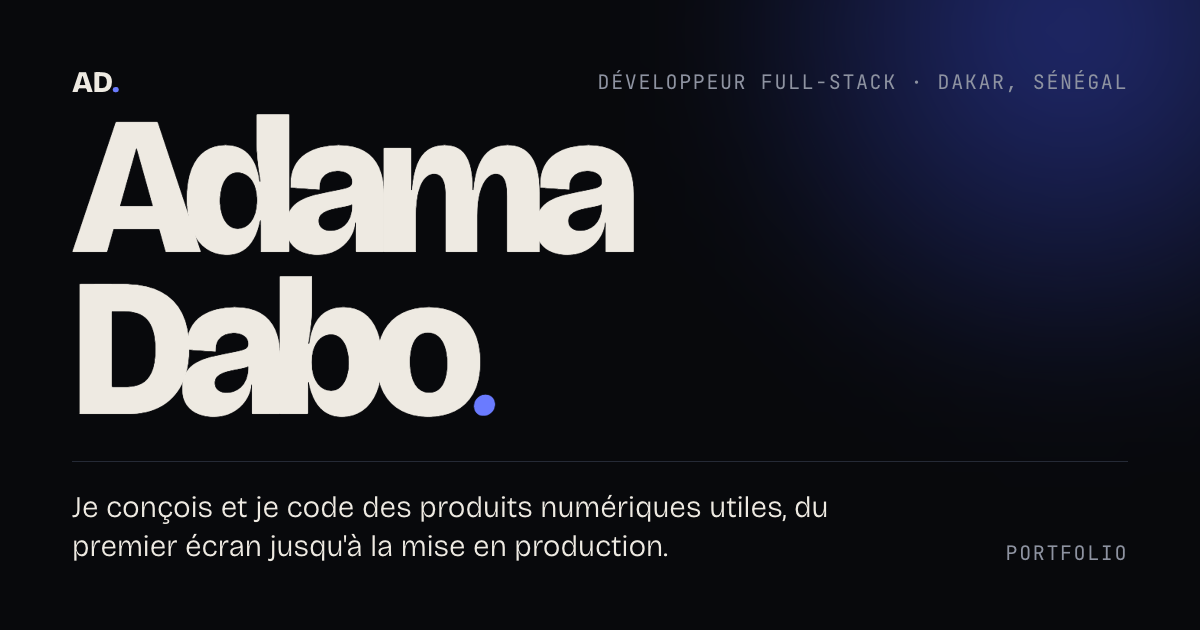
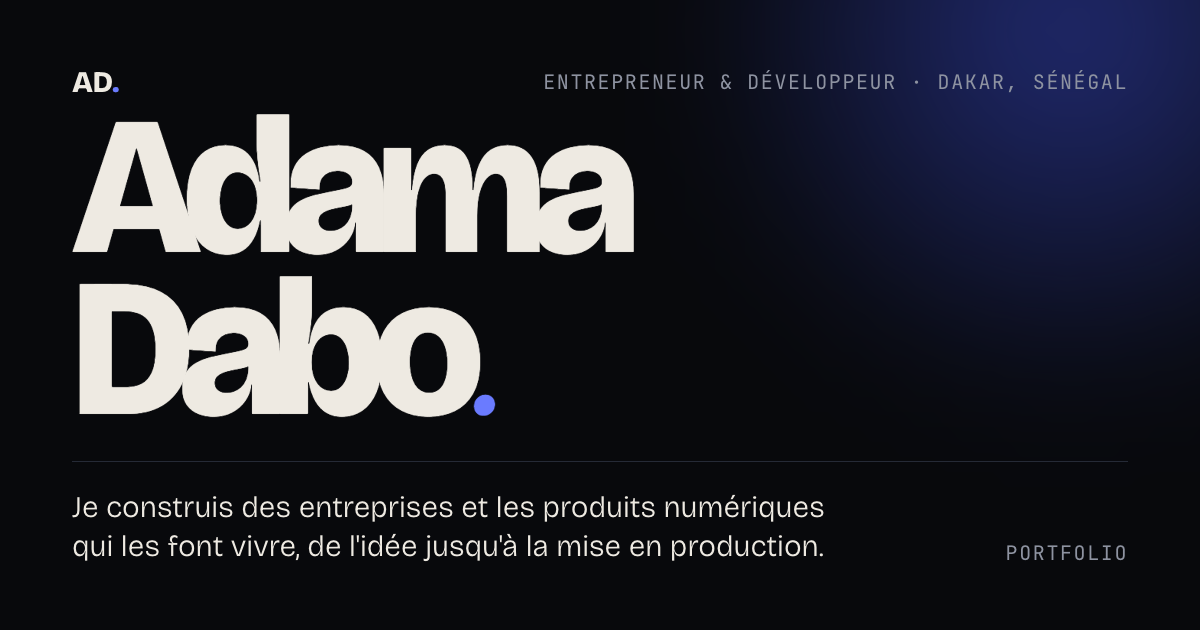
fix: hero copy, role rotator and draggable marquee

Changed region(s): [[0.0617, 0.7841, 0.7092, 0.9048], [0.4625, 0.1206, 0.74, 0.1508]]

diff --git a/src/hooks/useDraggableMarquee.js b/src/hooks/useDraggableMarquee.js
@@ -1,0 +1,100 @@
+import { useEffect, useRef } from 'react'
+import { useReducedMotion } from './useMediaQuery.js'
+
+const AUTO_SPEED = -0.6 // px per frame
+const FRICTION = 0.94
+
+// Endless strip driven by requestAnimationFrame: scrolls on its own, pauses under
+// the mouse, and can be dragged with a finger or the mouse, with momentum.
+// The track must hold its content twice: the offset loops modulo half its width.
+// With reduced motion it does not scroll by itself but stays draggable.
+export function useDraggableMarquee() {
+  const marqueeRef = useRef(null)
+  const trackRef = useRef(null)
+  const reduced = useReducedMotion()
+
+  useEffect(() => {
+    const marquee = marqueeRef.current
+    const track = trackRef.current
+    if (!marquee || !track) return
+
+    const auto = reduced ? 0 : AUTO_SPEED
+    let offset = 0
+    let velocity = 0
+    let dragging = false
+    let hovered = false
+    let lastX = 0
+    let lastTime = 0
+    let half = track.scrollWidth / 2
+    let frame = 0
+    let alive = true
+
+    const measure = () => {
+      half = track.scrollWidth / 2
+    }
+    const onPointerDown = (event) => {
+      dragging = true
+      lastX = event.clientX
+      lastTime = performance.now()
+      velocity = 0
+      marquee.classList.add('drag')
+      marquee.setPointerCapture(event.pointerId)
+    }
+    const onPointerMove = (event) => {
+      if (!dragging) return
+      const dx = event.clientX - lastX
+      const now = performance.now()
+      offset += dx
+      velocity = dx / Math.max(1, (now - lastTime) / 16.7)
+      lastX = event.clientX
+      lastTime = now
+    }
+    const onPointerUp = () => {
+      dragging = false
+      marquee.classList.remove('drag')
+    }
+    // Mouse only: a touch never "leaves", it would keep the strip paused.
+    const onPointerEnter = (event) => {
+      if (event.pointerType === 'mouse') hovered = true
+    }
+    const onPointerLeave = () => {
+      hovered = false
+    }
+    const loop = () => {
+      if (!dragging) {
+        velocity *= FRICTION
+        offset += velocity + (hovered || Math.abs(velocity) > 0.5 ? 0 : auto)
+      }
+      if (half) offset = ((offset % half) - half) % half
+      track.style.transform = `translate3d(${offset}px,0,0)`
+      frame = requestAnimationFrame(loop)
+    }
+
+    marquee.addEventListener('pointerdown', onPointerDown)
+    marquee.addEventListener('pointermove', onPointerMove)
+    marquee.addEventListener('pointerup', onPointerUp)
+    marquee.addEventListener('pointercancel', onPointerUp)
+    marquee.addEventListener('pointerenter', onPointerEnter)
+    marquee.addEventListener('pointerleave', onPointerLeave)
+    window.addEventListener('resize', measure)
+    document.fonts?.ready.then(() => {
+      if (alive) measure()
+    })
+    frame = requestAnimationFrame(loop)
+
+    return () => {
+      alive = false
+      cancelAnimationFrame(frame)
+      marquee.removeEventListener('pointerdown', onPointerDown)
+      marquee.removeEventListener('pointermove', onPointerMove)
+      marquee.removeEventListener('pointerup', onPointerUp)
+      marquee.removeEventListener('pointercancel', onPointerUp)
+      marquee.removeEventListener('pointerenter', onPointerEnter)
+      marquee.removeEventListener('pointerleave', onPointerLeave)
+      window.removeEventListener('resize', measure)
+      marquee.classList.remove('drag')
+    }
+  }, [reduced])
+
+  return { marqueeRef, trackRef }
+}

diff --git a/index.html b/index.html
@@ -3,10 +3,10 @@
   <head>
     <meta charset="UTF-8" />
     <meta name="viewport" content="width=device-width, initial-scale=1.0, viewport-fit=cover" />
-    <title>Adama Dabo — Portfolio</title>
+    <title>Adama Dabo — Entrepreneur &amp; développeur à Dakar</title>
     <meta
       name="description"
-      content="Adama Dabo, développeur full-stack à Dakar. Je conçois et je code des produits numériques utiles, du premier écran jusqu'à la mise en production : SaaS, sites sur-mesure, applications mobiles et automatisation."
+      content="Adama Dabo, entrepreneur et développeur à Dakar. Je construis des entreprises et les produits numériques qui les font vivre, de l'idée jusqu'à la mise en production : SaaS, sites sur-mesure, applications mobiles et automatisation."
     />
     <meta name="author" content="Adama Dabo" />
     <meta name="theme-color" content="#08090C" />
@@ -19,14 +19,14 @@
     <meta property="og:type" content="website" />
     <meta property="og:site_name" content="Adama Dabo" />
     <meta property="og:locale" content="fr_FR" />
-    <meta property="og:title" content="Adama Dabo — Développeur full-stack à Dakar" />
+    <meta property="og:title" content="Adama Dabo — Entrepreneur &amp; développeur à Dakar" />
     <meta
       property="og:description"
-      content="Je conçois et je code des produits numériques utiles, du premier écran jusqu'à la mise en production."
+      content="Je construis des entreprises et les produits numériques qui les font vivre, de l'idée jusqu'à la mise en production."
     />
     <meta property="og:image:width" content="1200" />
     <meta property="og:image:height" content="630" />
-    <meta property="og:image:alt" content="Adama Dabo — Développeur full-stack, Dakar, Sénégal" />
+    <meta property="og:image:alt" content="Adama Dabo — Entrepreneur &amp; développeur, Dakar, Sénégal" />
     <meta name="twitter:card" content="summary_large_image" />
 
     <script type="application/ld+json">
@@ -34,7 +34,7 @@
         "@context": "https://schema.org",
         "@type": "Person",
         "name": "Adama Dabo",
-        "jobTitle": "Développeur full-stack",
+        "jobTitle": "Entrepreneur et développeur web & mobile",
         "address": { "@type": "PostalAddress", "addressLocality": "Dakar", "addressCountry": "SN" },
         "sameAs": ["https://github.com/Obad00"]
       }
@@ -42,7 +42,7 @@
   </head>
   <body>
     <div id="root"></div>
-    <noscript>Adama Dabo — développeur full-stack à Dakar. Ce site a besoin de JavaScript pour s'afficher.</noscript>
+    <noscript>Adama Dabo — entrepreneur et développeur à Dakar. Ce site a besoin de JavaScript pour s'afficher.</noscript>
     <script type="module" src="/src/main.jsx"></script>
   </body>
 </html>

diff --git a/src/components/Hero.jsx b/src/components/Hero.jsx
@@ -1,28 +1,40 @@
 import { useMagnetic } from '../hooks/useMagnetic.js'
+import { useRotator } from '../hooks/useRotator.js'
 
-const ROLES = ['Développeur web & mobile', "Cofondateur d'ORYZA", 'Fondateur de SANKORA HAUSS']
+const ROLES = [
+  'Entrepreneur',
+  'Développeur web & mobile',
+  "Cofondateur d'ORYZA",
+  'Fondateur de SANKORA HAUSS',
+  'Concepteur de produits',
+]
 
 export default function Hero() {
   const magnetic = useMagnetic()
+  const { current, leaving } = useRotator(ROLES.length)
 
   return (
     <header className="hero">
-      <span className="mono kicker">Développeur full-stack · Dakar, Sénégal</span>
+      <span className="mono kicker">Entrepreneur &amp; développeur · Dakar, Sénégal</span>
       <h1>
         <span className="line"><span>Adama</span></span>
         <span className="line"><span>Dabo<em className="s">.</em></span></span>
       </h1>
       <div className="hero-row">
-        <p>Je conçois et je code des produits numériques utiles, du premier écran jusqu'à la mise en production.</p>
+        <p>Je construis des entreprises et les produits numériques qui les font vivre, de l'idée jusqu'à la mise en production.</p>
         <div>
           <span className="mono">Aujourd'hui</span>
           <div className="roles" aria-live="off">
             <ul>
-              {ROLES.map((role) => (
-                <li key={role}>{role}</li>
+              {ROLES.map((role, i) => (
+                <li
+                  key={role}
+                  className={i === current ? 'on' : i === leaving ? 'out' : undefined}
+                  aria-hidden={i !== current}
+                >
+                  {role}
+                </li>
               ))}
-              {/* The first role again, so the loop restarts without a jump. */}
-              <li aria-hidden="true">{ROLES[0]}</li>
             </ul>
           </div>
         </div>

diff --git a/src/styles/hero.css b/src/styles/hero.css
@@ -7,15 +7,19 @@
 .hero h1 .s{color:var(--cobalt);font-weight:400;letter-spacing:-.03em}
 .hero-row{display:grid;grid-template-columns:1.2fr 1fr auto;gap:32px;align-items:end;border-top:1px solid var(--line);padding-top:24px;animation:fade .9s var(--ease) .7s both}
 .hero-row p{margin:0;font-size:clamp(18px,1.8vw,24px);line-height:1.35;max-width:36ch}
-.roles{height:1.35em;overflow:hidden;font-size:clamp(18px,1.8vw,24px)}
-.roles ul{list-style:none;margin:0;padding:0;animation:roll 9s var(--ease) infinite}
-.roles li{height:1.35em}
-@keyframes roll{0%,22%{transform:translateY(0)}33%,55%{transform:translateY(-1.35em)}66%,88%{transform:translateY(-2.7em)}100%{transform:translateY(-4.05em)}}
+/* One role visible at a time, stacked in the same spot; useRotator moves the
+   on / out classes. The first role carries `on` from the start. */
+.roles{position:relative;height:1.4em;line-height:1.4em;overflow:hidden;font-size:clamp(18px,1.8vw,24px);margin-top:6px}
+.roles ul{list-style:none;margin:0;padding:0}
+.roles li{position:absolute;inset:0;white-space:nowrap;opacity:0;transform:translateY(100%);transition:transform .8s var(--ease),opacity .6s var(--ease)}
+.roles li.on{opacity:1;transform:none}
+.roles li.out{opacity:0;transform:translateY(-100%)}
 .scroll-cue{display:flex;align-items:center;gap:10px}
 .scroll-cue i{width:1px;height:46px;background:linear-gradient(var(--ivory),transparent);position:relative;overflow:hidden}
 .scroll-cue i::after{content:"";position:absolute;left:0;top:-50%;width:1px;height:50%;background:var(--cobalt);animation:cue 1.8s var(--ease) infinite}
 @keyframes cue{to{top:100%}}
 
 @media (max-width:900px){
+  .hero{min-height:0;padding:112px 0 40px;gap:22px}
   .hero-row{grid-template-columns:1fr}
 }

diff --git a/src/styles/marquee.css b/src/styles/marquee.css
@@ -1,6 +1,8 @@
-.marquee{position:relative;z-index:1;border-block:1px solid var(--line);padding-block:22px;overflow:hidden;margin-inline:calc(-1 * var(--gutter));-webkit-mask:linear-gradient(90deg,transparent,#000 10%,#000 90%,transparent);mask:linear-gradient(90deg,transparent,#000 10%,#000 90%,transparent)}
-.track{display:flex;gap:56px;width:max-content;animation:mq 38s linear infinite;font-size:clamp(22px,3vw,40px);font-weight:600;letter-spacing:-.02em}
+/* Position driven by useDraggableMarquee (translate3d on .track). */
+.marquee{position:relative;z-index:1;border-block:1px solid var(--line);padding-block:22px;overflow:hidden;cursor:grab;touch-action:pan-y;user-select:none;-webkit-user-select:none;margin-inline:calc(-1 * var(--gutter));-webkit-mask:linear-gradient(90deg,transparent,#000 10%,#000 90%,transparent);mask:linear-gradient(90deg,transparent,#000 10%,#000 90%,transparent)}
+.track{display:flex;gap:56px;width:max-content;will-change:transform;font-size:clamp(22px,3vw,40px);font-weight:600;letter-spacing:-.02em}
 .track span{display:flex;align-items:center;gap:56px;white-space:nowrap}
-.track span::after{content:"✳";color:var(--cobalt);font-size:.6em}
-.marquee:hover .track{animation-play-state:paused}
-@keyframes mq{to{transform:translateX(-50%)}}
+/* Drawn diamond, not a character: iOS renders the eight-spoked asterisk
+   (U+2733) as a green emoji. */
+.track span::after{content:"";width:.22em;height:.22em;background:var(--cobalt);transform:rotate(45deg);flex:none}
+.marquee.drag{cursor:grabbing}

diff --git a/src/hooks/useRotator.js b/src/hooks/useRotator.js
@@ -1,0 +1,26 @@
+import { useEffect, useState } from 'react'
+import { useReducedMotion } from './useMediaQuery.js'
+
+// Cycles through `count` items, one visible at a time. `current` is the item on
+// screen, `leaving` the one sliding out (null once its exit is over).
+// With reduced motion the first item stays put.
+export function useRotator(count, intervalMs = 2600, exitMs = 800) {
+  const [state, setState] = useState({ current: 0, leaving: null })
+  const reduced = useReducedMotion()
+
+  useEffect(() => {
+    if (reduced || count < 2) return
+    let exitTimer = 0
+    const timer = window.setInterval(() => {
+      setState(({ current }) => ({ current: (current + 1) % count, leaving: current }))
+      window.clearTimeout(exitTimer)
+      exitTimer = window.setTimeout(() => setState((s) => ({ ...s, leaving: null })), exitMs)
+    }, intervalMs)
+    return () => {
+      window.clearInterval(timer)
+      window.clearTimeout(exitTimer)
+    }
+  }, [count, intervalMs, exitMs, reduced])
+
+  return reduced ? { current: 0, leaving: null } : state
+}

diff --git a/src/components/Marquee.jsx b/src/components/Marquee.jsx
@@ -1,13 +1,16 @@
 import { marquee } from '../data/skills.js'
+import { useDraggableMarquee } from '../hooks/useDraggableMarquee.js'
 
 export default function Marquee() {
+  const { marqueeRef, trackRef } = useDraggableMarquee()
+
   return (
-    <div className="marquee" role="group" aria-label="Technologies">
-      <div className="track">
+    <div className="marquee" role="group" aria-label="Technologies" ref={marqueeRef}>
+      <div className="track" ref={trackRef}>
         {marquee.map((tech) => (
           <span key={tech}>{tech}</span>
         ))}
-        {/* Second copy: the track slides by half its width, then loops. */}
+        {/* Second copy: the hook loops the offset modulo half the track width. */}
         {marquee.map((tech) => (
           <span key={`${tech}-copy`} aria-hidden="true">{tech}</span>
         ))}

diff --git a/scripts/og.html b/scripts/og.html
@@ -16,7 +16,7 @@
   .row p{margin:0;font-size:30px;line-height:1.3;max-width:26em;font-weight:300}
 </style>
 <div class="glow"></div>
-<div class="top"><span class="logo">AD<span>.</span></span><span class="mono">Développeur full-stack · Dakar, Sénégal</span></div>
+<div class="top"><span class="logo">AD<span>.</span></span><span class="mono">Entrepreneur &amp; développeur · Dakar, Sénégal</span></div>
 <h1>Adama<br>Dabo<em>.</em></h1>
-<div class="row"><p>Je conçois et je code des produits numériques utiles, du premier écran jusqu'à la mise en production.</p><span class="mono">Portfolio</span></div>
+<div class="row"><p>Je construis des entreprises et les produits numériques qui les font vivre, de l'idée jusqu'à la mise en production.</p><span class="mono">Portfolio</span></div>
 </html>

diff --git a/src/components/ProjectModal.jsx b/src/components/ProjectModal.jsx
@@ -1,5 +1,6 @@
 import { useEffect, useRef } from 'react'
 import { useMagnetic } from '../hooks/useMagnetic.js'
+import { ARROW_OUT } from '../utils/format.js'
 import Cover from './Cover.jsx'
 
 const FOCUSABLE = 'a[href], button:not([disabled]), [tabindex]:not([tabindex="-1"])'
@@ -69,7 +70,7 @@ export default function ProjectModal({ project, open, onClose }) {
                 <p>{project.desc}</p>
                 {project.url ? (
                   <a className="visit" href={project.url} target="_blank" rel="noopener" {...magnetic}>
-                    Voir le site ↗
+                    Voir le site {ARROW_OUT}
                   </a>
                 ) : (
                   <span className="visit off" aria-disabled="true">

diff --git a/src/components/Contact.jsx b/src/components/Contact.jsx
@@ -1,5 +1,6 @@
 import { useEffect, useRef, useState } from 'react'
 import { useMagnetic } from '../hooks/useMagnetic.js'
+import { ARROW_OUT } from '../utils/format.js'
 
 const EMAIL = 'adamafalloudabo@gmail.com'
 const PHONES = ['+221 77 142 52 49', '+221 78 794 44 90']
@@ -50,7 +51,7 @@ export default function Contact() {
         </div>
         <div>
           <span className="mono">GitHub</span>
-          <a href="https://github.com/Obad00" target="_blank" rel="noopener">github.com/Obad00 ↗</a>
+          <a href="https://github.com/Obad00" target="_blank" rel="noopener">github.com/Obad00 {ARROW_OUT}</a>
         </div>
         <div>
           <span className="mono">Basé à</span>

diff --git a/src/utils/format.js b/src/utils/format.js
@@ -1,2 +1,6 @@
-// 7 → "07"
+// 7 becomes "07"
 export const pad = (n, length = 2) => String(n).padStart(length, '0')
+
+// North-east arrow followed by the text variation selector: without it iOS
+// draws the arrow as a blue emoji.
+export const ARROW_OUT = '\u2197\uFE0E'

diff --git a/README.md b/README.md
@@ -1,6 +1,6 @@
 # Portfolio — Adama Dabo
 
-Portfolio personnel d'Adama Dabo, développeur full-stack à Dakar : projets, expérience, parcours, stack et contact sur une seule page. Site statique en React + Vite.
+Portfolio personnel d'Adama Dabo, entrepreneur et développeur à Dakar : projets, expérience, parcours, stack et contact sur une seule page. Site statique en React + Vite.
 
 ## Démarrer
 
